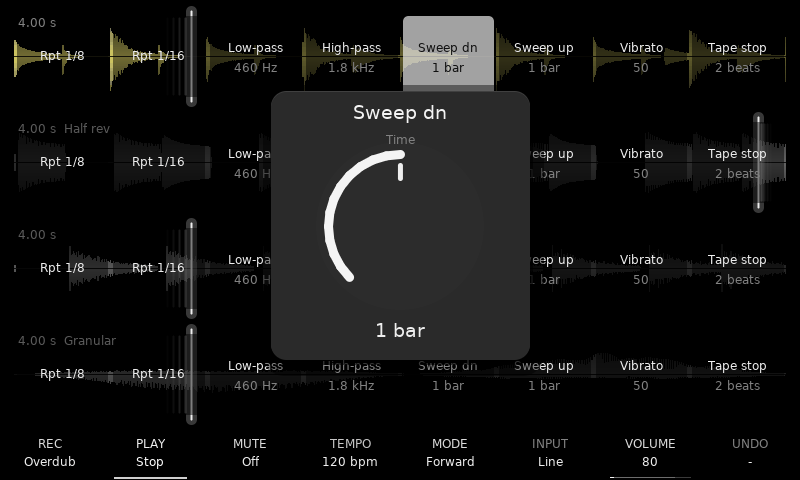
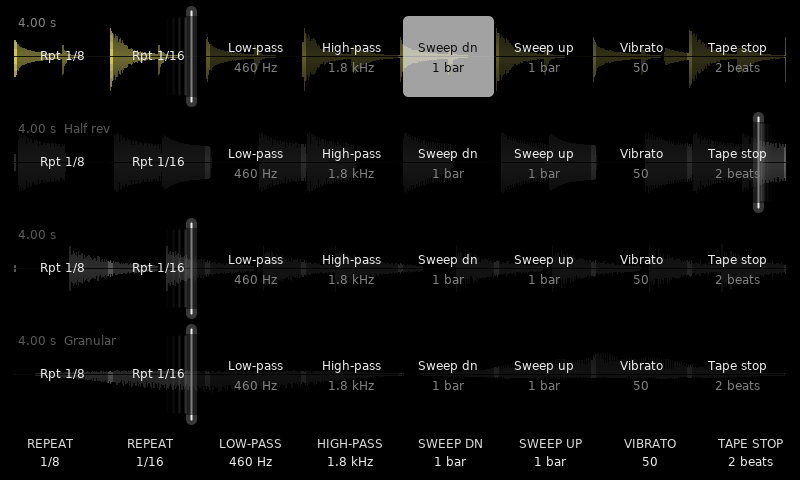
Performance knobs on the F-keys, Perform on the mixer, mixer mutes
Performance mode: holding pads no longer opens a knob over the lanes, so
effects run on several tracks at once. F1..F8 are the eight effects'
knobs (labelled with their settings): hold one and turn the encoder (its
knob shows meanwhile); a held pad and the encoder still set that effect.

On the mixer, Perform keeps the mixer and makes F1..F8 the effects on
every track at once: held, its effect runs on every track with a loop,
Shift + key latches it everywhere, the encoder sets its knob.

Mixer: holding Shift, F1..F4 mute and unmute the tracks; a muted strip
says so.

The playhead shows where a beat repeat or a tape stop reads (and the pads'
playhead eighth).

Streaming: a ring that still holds the read position is kept when its
start moves a block back (a latched repeat's slice across a block line
emptied and refilled it over and over: dropouts).

diff --git a/src/looper/app.cpp b/src/looper/app.cpp
@@ -493,13 +493,16 @@ void App::onInput(const ot::InputEvent& ev) {
             f4Turned_ = true;
             return;
         }
-        if (perf_ && heldFx_ >= 0) {
-            // An effect pad is held: the encoder turns that effect's knob.
-            const PerfKnob& kn = kPerfKnobs[heldFx_];
+        // Performance: an effect's F-key held (its knob shows), or else an
+        // effect pad held (a quick tweak, its value in the cell): the encoder
+        // turns that effect's knob.
+        const int pfx = perfKey_ >= 0 ? perfKey_ : heldFx_;
+        if (perf_ && pfx >= 0) {
+            const PerfKnob& kn = kPerfKnobs[pfx];
             const int step = kn.list || shift_ ? 1 : 2;
-            int v = int(engine_.perfParam(PerfFx(heldFx_))) + ev.delta * step;
+            int v = int(engine_.perfParam(PerfFx(pfx))) + ev.delta * step;
             v = v < 0 ? 0 : (v > kn.max ? kn.max : v);
-            engine_.post(Engine::kPerfParam, 0, int16_t((heldFx_ << 8) | v));
+            engine_.post(Engine::kPerfParam, 0, int16_t((pfx << 8) | v));
             return;
         }
         if (fxPage_ >= 0) {
@@ -557,7 +560,9 @@ void App::onInput(const ot::InputEvent& ev) {
             perfToggleOff_ = perf_;
             perf_ = true;
             perfDownMs_ = ev.timeMs;
-            goHome();   // the effect cells sit on the lanes
+            // The effect cells sit on the lanes; on the mixer it stays, its keys
+            // playing the effects on every track.
+            if (!mixer_) goHome();
         } else if (perfToggleOff_ || ev.timeMs - perfDownMs_ >= 400) {
             closePerf();
         }
@@ -580,6 +585,16 @@ void App::onInput(const ot::InputEvent& ev) {
         } else if (down && ev.id <= b::F4) {
             grainSel_ = ev.id - b::F1;
         }
+        return;
+    }
+    if (perfGlobal() && b::isFKey(ev.id)) {   // the mixer in performance mode: F1..F8 on every track
+        perfAll(ev.id - b::F1, down);
+        return;
+    }
+    if (perfKeys() && b::isFKey(ev.id)) {   // performance mode: F1..F8 hold the effects' knobs
+        const int k = ev.id - b::F1;
+        if (down) perfKey_ = k;
+        else if (perfKey_ == k) perfKey_ = -1;
         return;
     }
     if (home && shift_ && b::isFKey(ev.id) && ev.id != b::F4 && !f5Held_ && !f6Held_ && !f7Held_) {
@@ -800,12 +815,32 @@ void App::stressPreset() {
     hint(selected_, "Stress: granular, filters, reverb + Clouds, click", p_.clock->millis());
 }
 
+void App::perfAll(int fx, bool down) {
+    // Held: the effect on every track with a loop, the encoder on its knob;
+    // Shift + key latches it everywhere (again: off everywhere).
+    const uint8_t bit = uint8_t(1u << fx);
+    if (down) {
+        perfKey_ = fx;
+        bool on = true;
+        if (shift_) {
+            on = (perfLatch_[0] & bit) == 0;   // the tracks latch together
+            for (uint8_t& l : perfLatch_) l = on ? uint8_t(l | bit) : uint8_t(l & ~bit);
+        }
+        for (int t = 0; t < kTracks; ++t)
+            if (engine_.view(t).len.load()) engine_.post(Engine::kPerf, uint8_t(t), int16_t((fx << 8) | (on ? 1 : 0)));
+    } else {
+        if (perfKey_ == fx) perfKey_ = -1;
+        for (int t = 0; t < kTracks; ++t)
+            if (!(perfLatch_[t] & bit) && !(heldPads_[t] & bit)) engine_.post(Engine::kPerf, uint8_t(t), int16_t(fx << 8));
+    }
+}
+
 void App::closePerf() {
     perf_ = false;
     perfToggleOff_ = false;
     for (uint8_t& l : perfLatch_) l = 0;
     for (uint8_t& h : heldPads_) h = 0;
-    heldFx_ = -1;
+    heldFx_ = perfKey_ = -1;
     engine_.post(Engine::kPerfOff);
 }
 
@@ -1247,7 +1282,7 @@ void App::render(uint32_t now) {
         if (loop) std::snprintf(title, sizeof title, "Tempo  %d%%", int(engine_.speed() * 100.0f + 0.5f));
         else std::snprintf(title, sizeof title, "Tempo");
         drawPopupKnob(title, v, frac, tempoShown_, kAmber, 0.0f);
-    } else if (perf_ && heldFx_ >= 0) {
+    } else if (perfKeys() && perfKey_ >= 0) {   // an effect's F-key held (pads alone show no knob)
         drawPerfKnob();
     }
     if (stats_) drawStats();
@@ -1494,7 +1529,19 @@ void App::drawFKeys() {
         const int x0 = i * kKeyW + 3, x1 = (i + 1) * kKeyW - 3, cx = i * kKeyW + kKeyW / 2;
         bool hot = false;
         uint32_t hotCol = 0;   // a lit key's own colour (0: the page's)
-        if (modeBar_) {
+        if (perfGlobal()) {   // the mixer in performance mode: the effects on every track; lit while on
+            static const char* const kPerfTitle[kPerfFxCount] = {"REPEAT",   "REPEAT",   "LOW-PASS", "HIGH-PASS",
+                                                                 "SWEEP DN", "SWEEP UP", "VIBRATO",  "TAPE STOP"};
+            title[i] = kPerfTitle[i];
+            perfValue(PerfFx(i), val[i], sizeof val[i]);
+            hot = perfKey_ == i || (perfLatch_[0] >> i & 1);
+        } else if (perfKeys()) {   // performance mode: the eight effects, their settings; lit while held
+            static const char* const kPerfTitle[kPerfFxCount] = {"REPEAT",   "REPEAT",   "LOW-PASS", "HIGH-PASS",
+                                                                 "SWEEP DN", "SWEEP UP", "VIBRATO",  "TAPE STOP"};
+            title[i] = kPerfTitle[i];
+            perfValue(PerfFx(i), val[i], sizeof val[i]);
+            hot = perfKey_ == i;
+        } else if (modeBar_) {
             const int m = kModeBarKeys[modePage_ & 1][i];
             title[i] = "";
             std::snprintf(val[i], sizeof val[i], "%s",
@@ -1681,6 +1728,14 @@ void App::drawFKeys() {
                     break;
                 default: title[i] = "HOME"; std::snprintf(val[i], sizeof val[i], "Loops"); break;
             }
+        } else if (mixer_ && shift_) {   // Shift: F1..F4 mute a track, lit while muted
+            static const char* const kNames[kTracks] = {"Track 1", "Track 2", "Track 3", "Track 4"};
+            title[i] = i < kTracks ? "MUTE" : (i == 7 ? "HOME" : "");
+            std::snprintf(val[i], sizeof val[i], "%s", i < kTracks ? kNames[i] : (i == 7 ? "Loops" : ""));
+            if (i < kTracks && engine_.view(i).muted.load()) {
+                hot = true;
+                hotCol = kMute;
+            }
         } else if (mixer_) {   // F1..F7 pick a strip, F8 home
             static const char* const kTitles[8] = {"TRACK", "TRACK", "TRACK", "TRACK", "FX 1", "FX 2", "MASTER", "HOME"};
             static const char* const kNames[8] = {"Track 1", "Track 2", "Track 3", "Track 4", "", "", "Level", "Loops"};
@@ -1753,7 +1808,7 @@ void App::drawFKeys() {
         if (config_ || file_ || inPage_) hc = kAmber;
         else if (edit_) hc = (i == 4 || i == 5) ? kAmber : kTrackColor[editTrack_];
         else if (fxPage_ >= 0) hc = stripColor(4 + fxPage_);
-        else if (mixer_ && !modeBar_) hc = stripColor(i);
+        else if (mixer_ && !modeBar_ && !perfGlobal()) hc = stripColor(i);
         if (hot && hotCol) hc = hotCol;
         // A lit key with no state colour of its own (the mode, the knob, the
         // chapter picked) shows the selection; states (recording, playing,
@@ -1773,8 +1828,10 @@ void App::drawFKeys() {
             else if (inPage_) tcol = i < 5 ? scale(hc, 0.9f) : kDim;
             else if (edit_) tcol = i < 7 ? scale(hc, 0.9f) : kDim;
             else if (fxPage_ >= 0) tcol = i < 6 ? scale(hc, 0.9f) : kDim;
+            else if (perfGlobal()) tcol = kSoft;   // the eight effects alike
             else if (mixer_) tcol = i < 7 ? scale(hc, 0.9f) : kDim;
             else if (manual_) tcol = kDim;   // the chapter keys alike
+            else if (perfKeys()) tcol = scale(tc, 0.9f);   // the eight effects alike
             else if (!modeBar_ && i == 3) tcol = engine_.opt(OptParam::kMetronome) ? kAmber : kDim;   // F4 is global
             else if (!modeBar_ && (i < 5 || i == 6)) tcol = scale(tc, 0.9f);
             color(tcol);
@@ -1787,7 +1844,7 @@ void App::drawFKeys() {
     // Home page: the input level inside the INPUT cell, the track's level inside VOLUME
     // (not under the Shift layer, where those keys do other things).
     if (!modeBar_ && !mixer_ && fxPage_ < 0 && !edit_ && !config_ && !file_ && !inPage_ && !manual_ && !shiftLayer() &&
-        !grainPanel()) {
+        !grainPanel() && !perfKeys()) {
         const int x0 = 5 * kKeyW + 10, x1 = 6 * kKeyW - 10;
         for (int c = 0; c < 2; ++c) {
             const float m = inMeter_[c];
@@ -1851,6 +1908,11 @@ void App::mixerKey(uint8_t id) {
         goHome();
         return;
     }
+    if (shift_ && b::isFKey(id)) {   // Shift: F1..F4 mute / unmute a track (the strip stays)
+        const int k = id - b::F1;
+        if (k < kTracks) engine_.post(Engine::kMute, uint8_t(k));
+        return;
+    }
     if (b::isFKey(id)) strip_ = id - b::F1;
     else if (id == b::Left && strip_ > 0) --strip_;
     else if (id == b::Right && strip_ < kStrips - 1) ++strip_;
@@ -1903,13 +1965,28 @@ void App::drawMixer() {
     for (int s = 0; s < kStrips; ++s) drawStrip(s);
     // The eighth column, over F8: how to drive the page.
     const int cx = 7 * kKeyW + kKeyW / 2;
+    if (perfGlobal()) {   // Perform: the keys play the effects on every track
+        color(kSel);
+        text(cx, 182, kFontSmall, Disp::kOptCenter, "Perform:");
+        text(cx, 200, kFontSmall, Disp::kOptCenter, "all tracks");
+        color(kHelp);
+        text(cx, 236, kFontSmall, Disp::kOptCenter, "Hold F1-F8");
+        text(cx, 254, kFontSmall, Disp::kOptCenter, "+ encoder:");
+        text(cx, 272, kFontSmall, Disp::kOptCenter, "its knob");
+        text(cx, 302, kFontSmall, Disp::kOptCenter, "Shift + key:");
+        text(cx, 320, kFontSmall, Disp::kOptCenter, "latch");
+        text(cx, 350, kFontSmall, Disp::kOptCenter, "Left/Right");
+        text(cx, 368, kFontSmall, Disp::kOptCenter, "strip");
+        return;
+    }
     color(kHelp);
     text(cx, 200, kFontSmall, Disp::kOptCenter, "Up/Down");
     text(cx, 218, kFontSmall, Disp::kOptCenter, "row");
     text(cx, 248, kFontSmall, Disp::kOptCenter, "Encoder");
     text(cx, 266, kFontSmall, Disp::kOptCenter, "value");
     text(cx, 296, kFontSmall, Disp::kOptCenter, "Shift");
-    text(cx, 314, kFontSmall, Disp::kOptCenter, "fine");
+    text(cx, 314, kFontSmall, Disp::kOptCenter, "fine;");
+    text(cx, 332, kFontSmall, Disp::kOptCenter, "F1-F4 mute");
 }
 
 void App::drawStrip(int s) {
@@ -1921,8 +1998,9 @@ void App::drawStrip(int s) {
     const bool emptyTrack = s < kTracks && TrackState(engine_.view(s).state.load()) == TrackState::kEmpty;
     char buf[16];
 
-    color(sel ? kSel : (emptyTrack ? kFaint : kDim));
-    text(cx, 23, kFontSmall, Disp::kOptCenter, kStripName[s]);
+    const bool muted = s < kTracks && engine_.view(s).muted.load();
+    color(sel ? kSel : (muted ? kMute : (emptyTrack ? kFaint : kDim)));
+    text(cx, 23, kFontSmall, Disp::kOptCenter, muted ? "Muted" : kStripName[s]);
 
     // Two small parameters: label, value, bar. Track sends use their slot's colour.
     for (int row = 0; row < 2; ++row) {
@@ -3183,8 +3261,8 @@ void App::perfValue(PerfFx fx, char* buf, size_t n) const {
 }
 
 void App::drawPerfKnob() {
-    const PerfFx fx = PerfFx(heldFx_);
-    const PerfKnob& kn = kPerfKnobs[heldFx_];
+    const PerfFx fx = PerfFx(perfKey_);
+    const PerfKnob& kn = kPerfKnobs[perfKey_];
     char title[24], val[16];
     perfLabel(fx, title, sizeof title);
     perfValue(fx, val, sizeof val);

diff --git a/src/looper/engine.cpp b/src/looper/engine.cpp
@@ -1952,6 +1952,7 @@ void Engine::render(int16_t* out, const int16_t* in, uint32_t frames) {
             wrote = dub;
             if (vib) pf.vib.renorm();
             if (under) stream_[t].underruns.fetch_add(under, std::memory_order_relaxed);
+            k.fxPos = fxIp;
             if (k.head)   // a long take: the ring follows a repeat or a tape stop while it lasts
                 stream_[t].fxAt.store(fxIp == StreamView::kNoFx ? fxIp : k.start + fxIp, std::memory_order_relaxed);
             if (sh)   // which way the Streamer fills the ring
@@ -2136,7 +2137,11 @@ void Engine::publish() {
         v.written.store(k.state == TrackState::kRecording ? k.written : k.len, std::memory_order_relaxed);
         // Stopped and queued tracks show their start: that is where they begin again.
         const bool parked = k.state == TrackState::kStopped || k.state == TrackState::kQueued;
-        v.pos.store(k.state == TrackState::kRecording ? k.written : (parked ? 0 : posOf(k)), std::memory_order_relaxed);
+        // A beat repeat or a tape stop: the playhead is where it reads (the loop runs on under it).
+        const bool fx = running_ && k.fxPos != 0xFFFFFFFFu &&
+                        (k.state == TrackState::kPlaying || k.state == TrackState::kOverdubbing);
+        v.pos.store(k.state == TrackState::kRecording ? k.written : (parked ? 0 : (fx ? k.fxPos : posOf(k))),
+                    std::memory_order_relaxed);
         v.mono.store(k.mono, std::memory_order_relaxed);
         v.perf.store(k.perf.mask, std::memory_order_relaxed);
         v.start.store(k.start, std::memory_order_relaxed);

diff --git a/src/looper/manual.h b/src/looper/manual.h
@@ -62,8 +62,11 @@ constexpr const char* kPads[] = {
     "  5 Repeat 1/8   6 Repeat 1/16   7 Low-pass   8 High-pass",
     "  9 Sweep down  10 Sweep up     11 Vibrato   12 Tape stop",
     "Hold a pad: the effect while held. Shift + pad: latch it (again: off).",
-    "Hold a pad and turn the encoder: that effect's knob (shared by the tracks).",
+    "F1..F8 are the eight effects' knobs: hold one and turn the encoder",
+    "(shared by the tracks; holding a pad and turning sets that one too).",
     "Column 4, rows 1 and 2: Freeze for a Clouds slot in FX 1 / FX 2.",
+    "On the mixer (Master), Perform makes F1..F8 the effects on every track:",
+    "hold one (Shift: latch), and the encoder sets its knob meanwhile.",
     "Leaving performance mode turns every effect off.",
     "",
     "# Lights",
@@ -139,6 +142,7 @@ constexpr const char* kFx[] = {
     "",
     "# Mixer (Master)",
     "F1..F7 pick a strip, Up / Down a row, the encoder sets it (Shift: fine).",
+    "Hold Shift: F1..F4 mute / unmute the tracks.",
     "Tracks: To FX 1, To FX 2 (sends, before the track's level), Level.",
     "FX strips: a knob, To FX 2 / To FX 1 (this effect into the other one,",
     "e.g. Clouds into the reverb), Return. Master: the output level.",

diff --git a/src/looper/app.h b/src/looper/app.h
@@ -176,6 +176,13 @@ private:
     void perfLabel(PerfFx fx, char* buf, size_t n) const;   // "Rpt 1/8" etc.
     void perfValue(PerfFx fx, char* buf, size_t n) const;
     int heldFx_ = -1;             // effect of the pad held last (or -1)
+    int perfKey_ = -1;            // performance mode: the F-key held, its effect's knob on the encoder (or -1)
+    // Performance mode on the mixer: F1..F8 play the eight effects on every track at once.
+    bool perfGlobal() const { return perf_ && mixer_; }
+    void perfAll(int fx, bool down);   // an effect key on the mixer: on / off (latched: Shift) on every track
+    bool perfKeys() const {       // performance mode on the home page: F1..F8 are the effects' knobs
+        return perf_ && !mixer_ && fxPage_ < 0 && !edit_ && !config_ && !file_ && !inPage_ && !manual_;
+    }
     uint8_t heldPads_[kTracks] = {};   // held effect pads per track
     float perfShown_ = 0.0f;
     // Loop editor (S.Edit): a big waveform of one track, start / end markers on

diff --git a/src/looper/stream.cpp b/src/looper/stream.cpp
@@ -438,7 +438,11 @@ bool Streamer::serviceTrack(int t) {
         if (s > len) s = len;
     }
     uint32_t rS = sv.rStart.load(std::memory_order_relaxed), rE = sv.rEnd.load(std::memory_order_relaxed);
-    if (!pend_[t] && (s < rS || s > rE)) {   // a jump or the loop's wrap: start over at s
+    // A jump or the loop's wrap: start over at s. Not while the ring still holds
+    // the read position (a beat repeat's slice across a block line moves s a
+    // block back and forth: the ring keeps it).
+    const bool held = pos >= rS && pos < rE && rE > rS;
+    if (!pend_[t] && (s < rS || s > rE) && !held) {
         sv.rEnd.store(rS, std::memory_order_release);   // empty first: an overdub stops writing it
         pend_[t] = true;
         pendS_[t] = rS;

diff --git a/src/looper/engine.h b/src/looper/engine.h
@@ -431,6 +431,7 @@ private:
         uint8_t dubUndo = 0;         // 0 nothing, 1 can undo, 2 can redo (TrackView::dubUndo)
         float dubX = 0.0f;           // overdub / replace ramp, 0..1 (it ramps out after the stop too)
         uint32_t fadeAt = 0xFFFFFFFFu;   // the take's first frame after silence: it fades in from here
+        uint32_t fxPos = 0xFFFFFFFFu;    // where a beat repeat or a tape stop read last (loop frame; the playhead shows it)
         // The fade-in gain for buffer frame i of a take (1 outside the fade).
         float fadeIn(uint32_t i) const {
             return i >= fadeAt && i - fadeAt < kFadeInFrames ? (float(i - fadeAt) + 0.5f) / float(kFadeInFrames) : 1.0f;

diff --git a/README.md b/README.md
@@ -26,8 +26,8 @@ way [SIDTracker](https://github.com/sandlbn/SidTracker) does it. See
 - Granular playback, with the grains drawn on the waveform
 - Tempo changes as tape varispeed or time-stretch, tap tempo
 - Two send effects: delay, ping-pong, reverb, chorus, flanger, Mutable Instruments Clouds
-- A mixer with sends, returns, FX chaining and meters
-- Performance mode: beat repeats, filters, sweeps, vibrato, tape stop on the pads
+- A mixer with sends, returns, FX chaining, meters and mutes
+- Performance mode: beat repeats, filters, sweeps, vibrato, tape stop, on one track or all at once
 - A loop editor: trim, cut, erase
 - Projects saved to the SD card, WAV export
 - MIDI clock in and out, learnable footswitch actions
@@ -136,7 +136,7 @@ its knobs. One slot can feed the other, so Clouds can run into the reverb.
 
 Master opens seven strips: per track the two pre-fader sends and the level,
 per FX slot a knob, the chain send to the other slot and the return, and the
-master, with meters on every fader.
+master, with meters on every fader. Hold Shift for the mutes on F1–F4.
 
 ![The mixer](docs/img/mixer.png)
 
@@ -144,8 +144,11 @@ master, with meters on every fader.
 
 Perform turns pad columns 5 to 12 into eight effects per track: two beat
 repeats, low-pass, high-pass, two filter sweeps, vibrato and tape stop. Hold
-a pad to play one, Shift + pad to latch it, hold and turn the encoder for its
-knob. Repeats and tape stop land back in time when released.
+a pad to play one, Shift + pad to latch it; play as many as you like on as many
+tracks at once. The screen keys become the eight effects' knobs: hold one and
+turn the encoder. Repeats and tape stop land back in time when released, and
+the playhead shows where they read. On the mixer, Perform turns the screen keys
+into the eight effects for **every track at once**.
 
 ![Performance mode, a filter sweep held](docs/img/perform.png)
 
@@ -645,9 +648,20 @@ again. Leaving performance mode turns everything off. Pad columns 1–3 keep
 record / play / mute; column 4 is **Freeze** for a Clouds slot (row 1 FX 1,
 row 2 FX 2; lit while frozen) instead of clear.
 
-Each effect has one knob: **hold its pad and turn the encoder** (a big knob
-shows while held). The knobs are shared by the four tracks; each cell shows its
-setting.
+Each effect has one knob, on the screen keys while performance mode is on:
+F1–F8 are the eight effects (labelled with their settings); **hold one and turn
+the encoder** to set it (its big knob shows while the key is held). Holding a
+pad and turning the encoder sets that effect too, without the knob. Holding pads
+never covers the lanes, so effects can run on several tracks at once. The knobs
+are shared by the four tracks; each cell shows its setting. The track keys come
+back when performance mode is left (pad columns 1–3 keep record / play / mute
+meanwhile). A beat repeat or a tape stop moves the playhead to where it reads.
+
+**On the mixer** (Master), Perform keeps the mixer on screen and makes F1–F8
+the eight effects for all tracks at once: hold a key and its effect runs on
+every track with a loop, Shift + key latches it on all of them (again: off),
+and holding a key and turning the encoder sets its knob. Left / Right still
+pick a strip. The pads keep playing effects per track meanwhile.
 
 | Pad column | Effect | Knob (default) |
 |---|---|---|
@@ -726,7 +740,9 @@ FX 1 → FX 2 runs and the other shows "off".
 | Master (F7) | – | – | Master level |
 
 F1–F7 or Left/Right pick a strip, Up/Down a row (the row stays when you change
-strip), the encoder sets the value, Shift + encoder in single steps. Faders
+strip), the encoder sets the value, Shift + encoder in single steps. Holding
+**Shift**, F1–F4 mute and unmute tracks 1–4 (the labels read MUTE, lit while
+muted); a muted strip shows "Muted" where its name is. Faders
 show their level meter; the master shows left and right. Sends start at 0,
 returns at 80, track levels at 80, master at 100. Mixer settings stay when a
 track is cleared.
